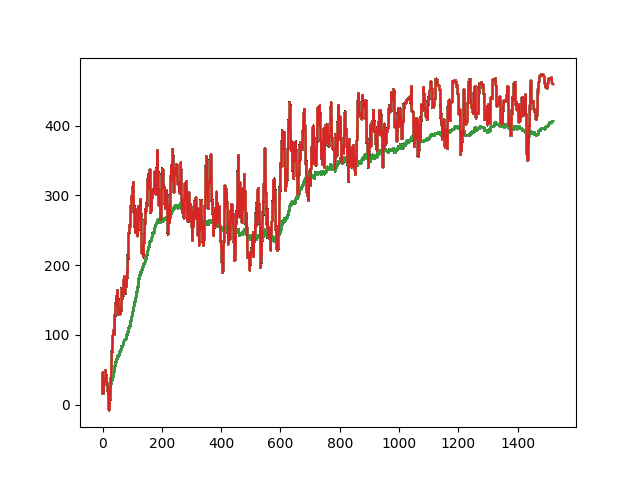
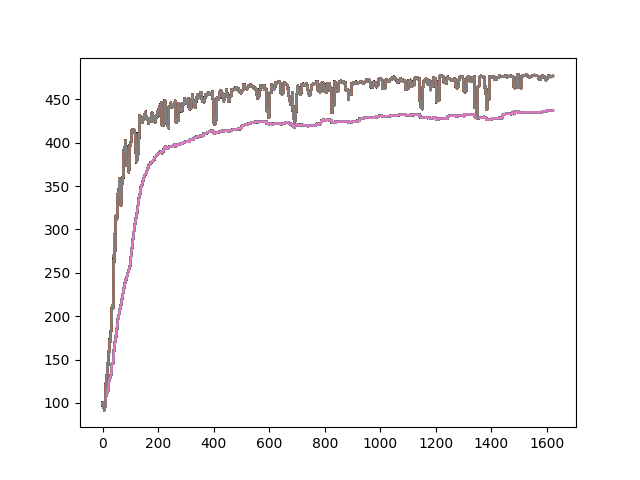
perfect mopper

diff --git a/main.py b/main.py
@@ -20,7 +20,7 @@ def reset():
 
 
 agent = DQAgent((10, 10, 4), 4)
-#agent.loadModel("models/Model-latest.weights.h5")
+agent.loadModel("models/Model-latest.weights.h5")
 
 STEP_PENALTY     = -1.0     # every time step
 NEW_CELL_REWARD  = +5.0